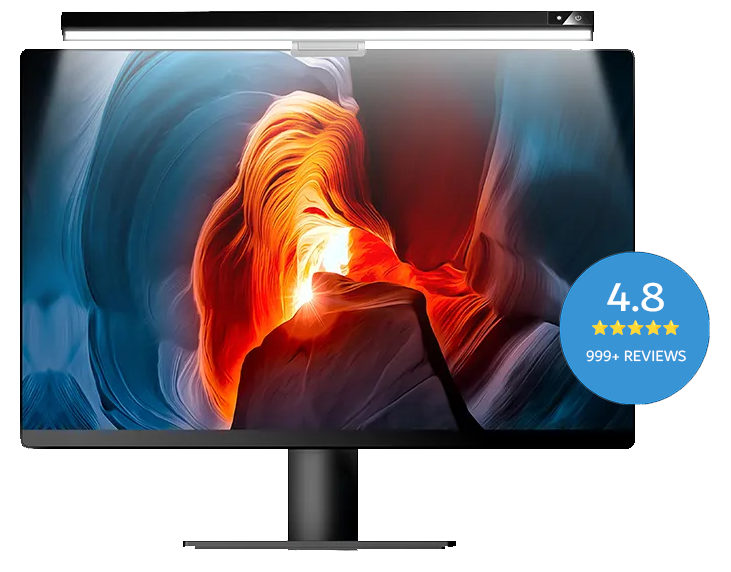
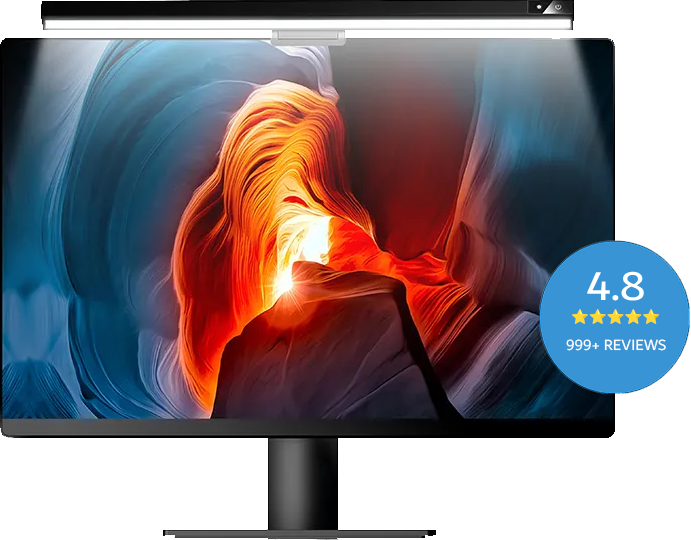
f

diff --git a/src/app/content/hero/hero.module.css b/src/app/content/hero/hero.module.css
@@ -26,7 +26,7 @@
     margin: 30px auto;
 }
 .photo{
-    width: 44vw;
+    width: 40vw;
 }
 
 
@@ -37,17 +37,18 @@
         gap: 2em;
     }
     .photo{
-        width: 100vw;
-        height: 100vw;
+        width: 85vw;
+        height: 80vw;
+        align-self: center;
     }
     .text{
         width: 100vw;
     }  
 }
-@media screen and (min-width: 1024px) and (max-width: 1920px) {
+@media screen and (min-width: 1024px) and (max-width: 1919px) {
     .photo{
-        width: 43vw;
-        height: 40vw;
+        width: 40vw;
+        height: 30vw;
         align-self: center;
     }
     .text h1{

diff --git a/src/app/content/hero/hero.tsx b/src/app/content/hero/hero.tsx
@@ -9,7 +9,7 @@ export default function Hero(){
     
     return(
         <main className={styles.container}>
-            <Image className={styles.photo} src={'/heroPhoto.png'} alt="photo" width={850} height={700}></Image>
+            <Image className={styles.photo} src={'/heroPhoto.png'} alt="photo" width={700} height={540}></Image>
             <div className={styles.right}>
                 <div className={styles.text}>
                     <div className={styles.paragraph}>

diff --git a/src/app/content/video/video.tsx b/src/app/content/video/video.tsx
@@ -1,0 +1,13 @@
+import styles from './video.module.css';
+import Image from 'next/image';
+
+export default function Video(){
+    return(
+        <main className={styles.container}>
+            <div className={styles.text}>
+
+            </div>
+
+        </main>
+    )
+}

diff --git a/src/app/content/symetric/symetric.module.css b/src/app/content/symetric/symetric.module.css
@@ -40,6 +40,7 @@
 .box:hover{
     background-color: rgb(180, 180, 180);
     border-color: rgb(180, 180, 180);
+    cursor: default;
 }
 .camera{
     align-self: center;
